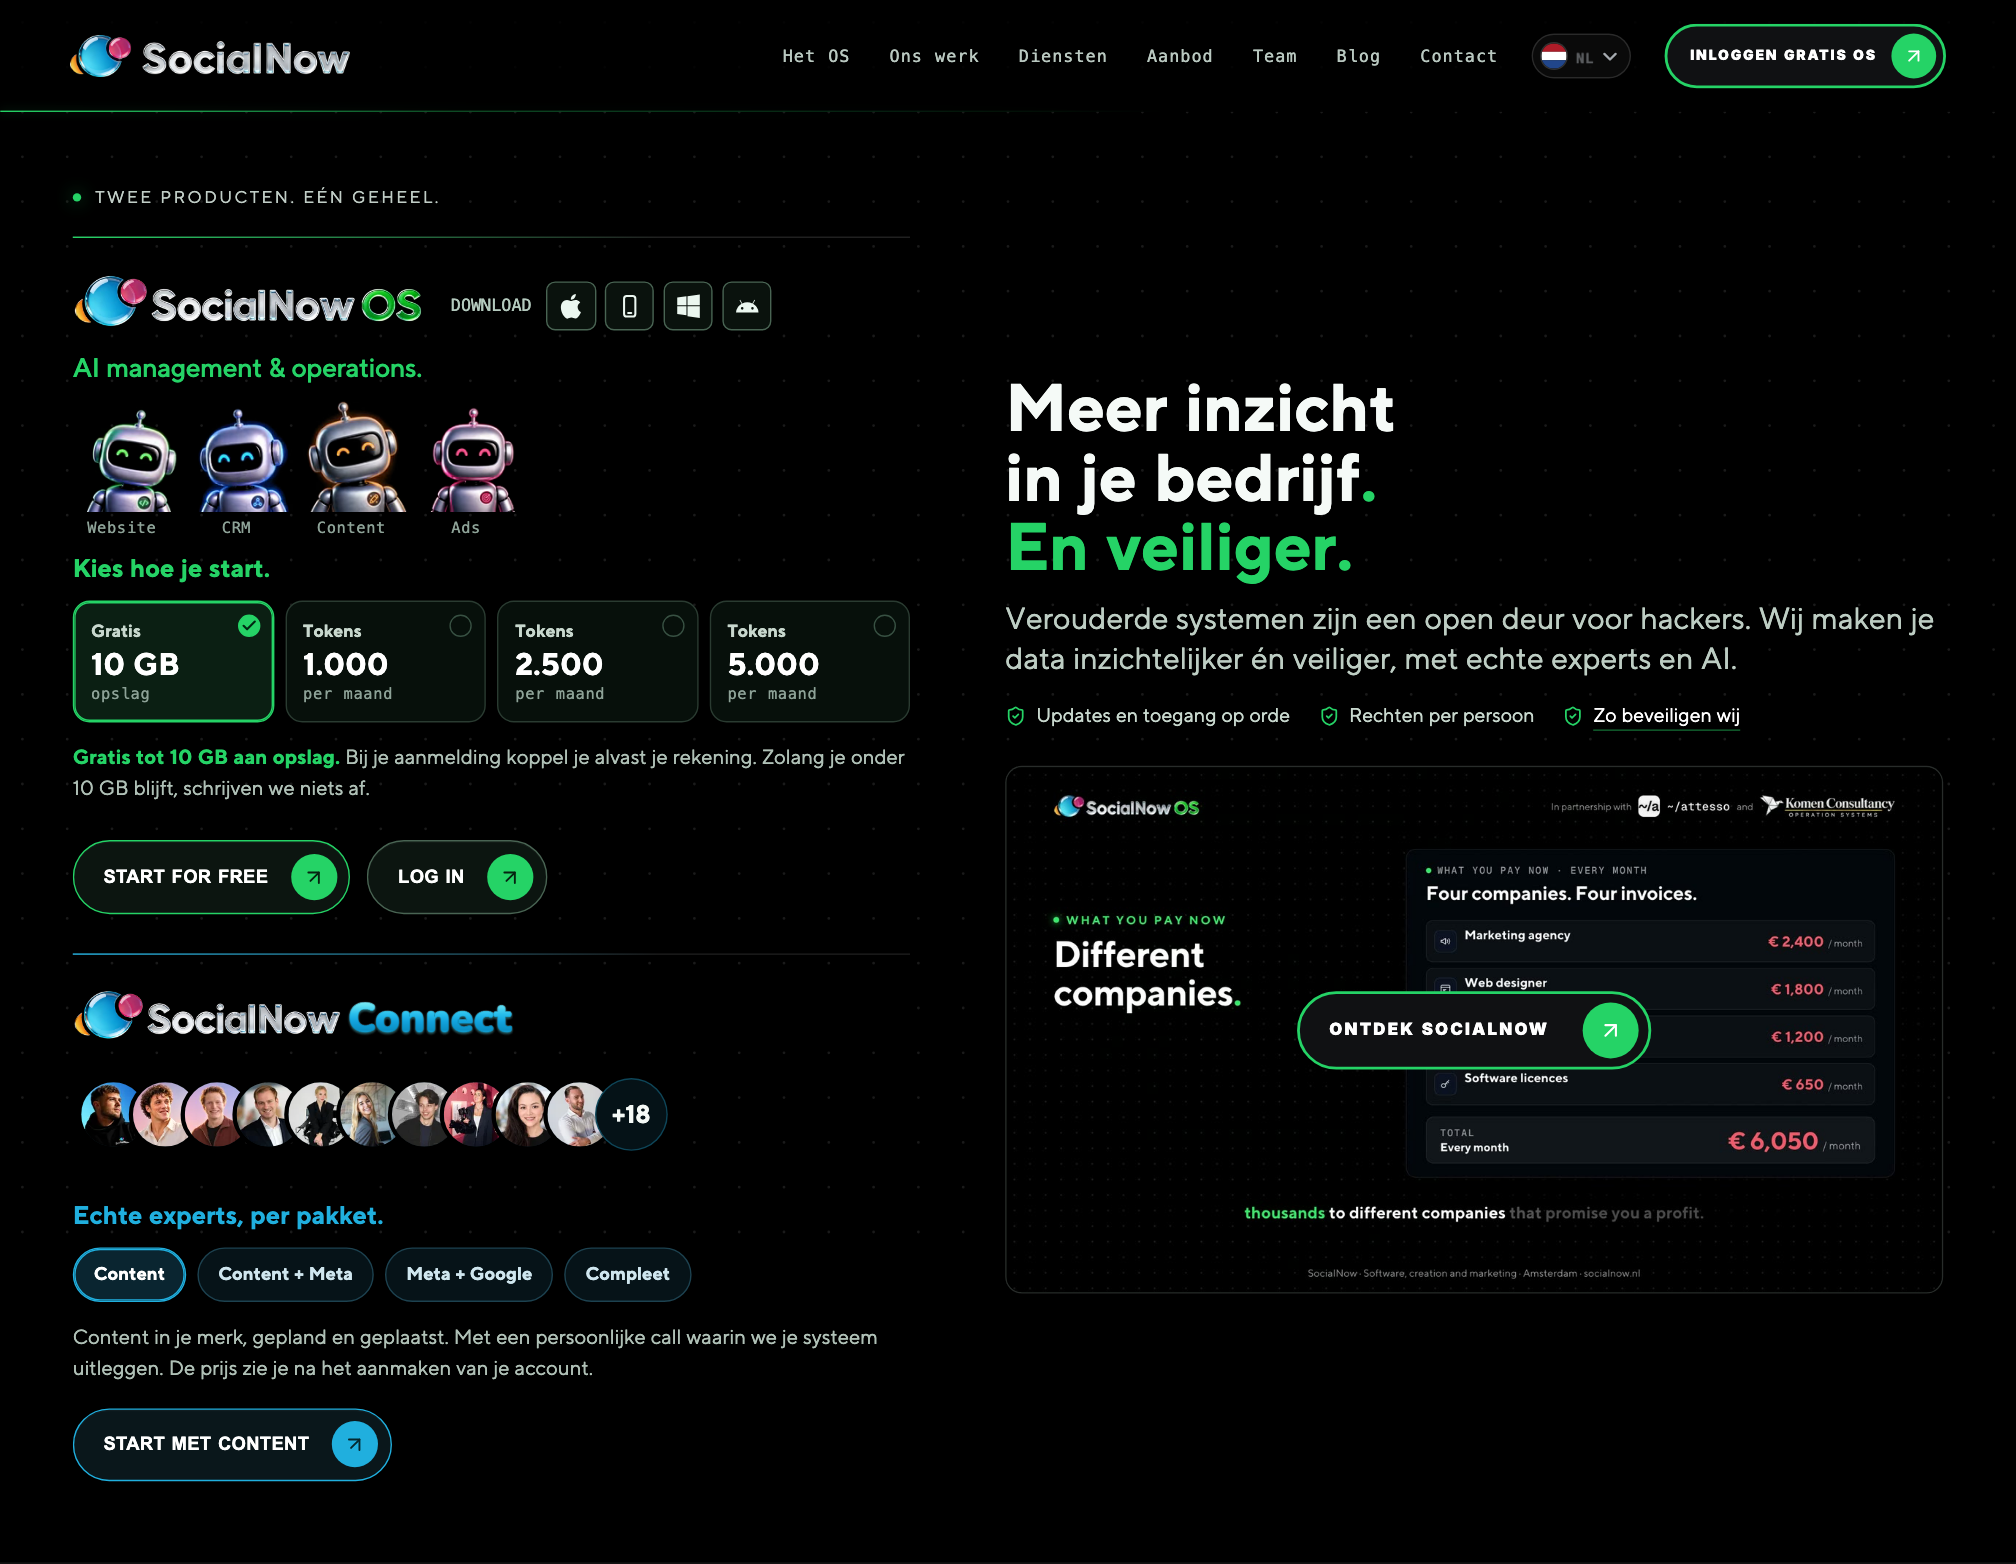
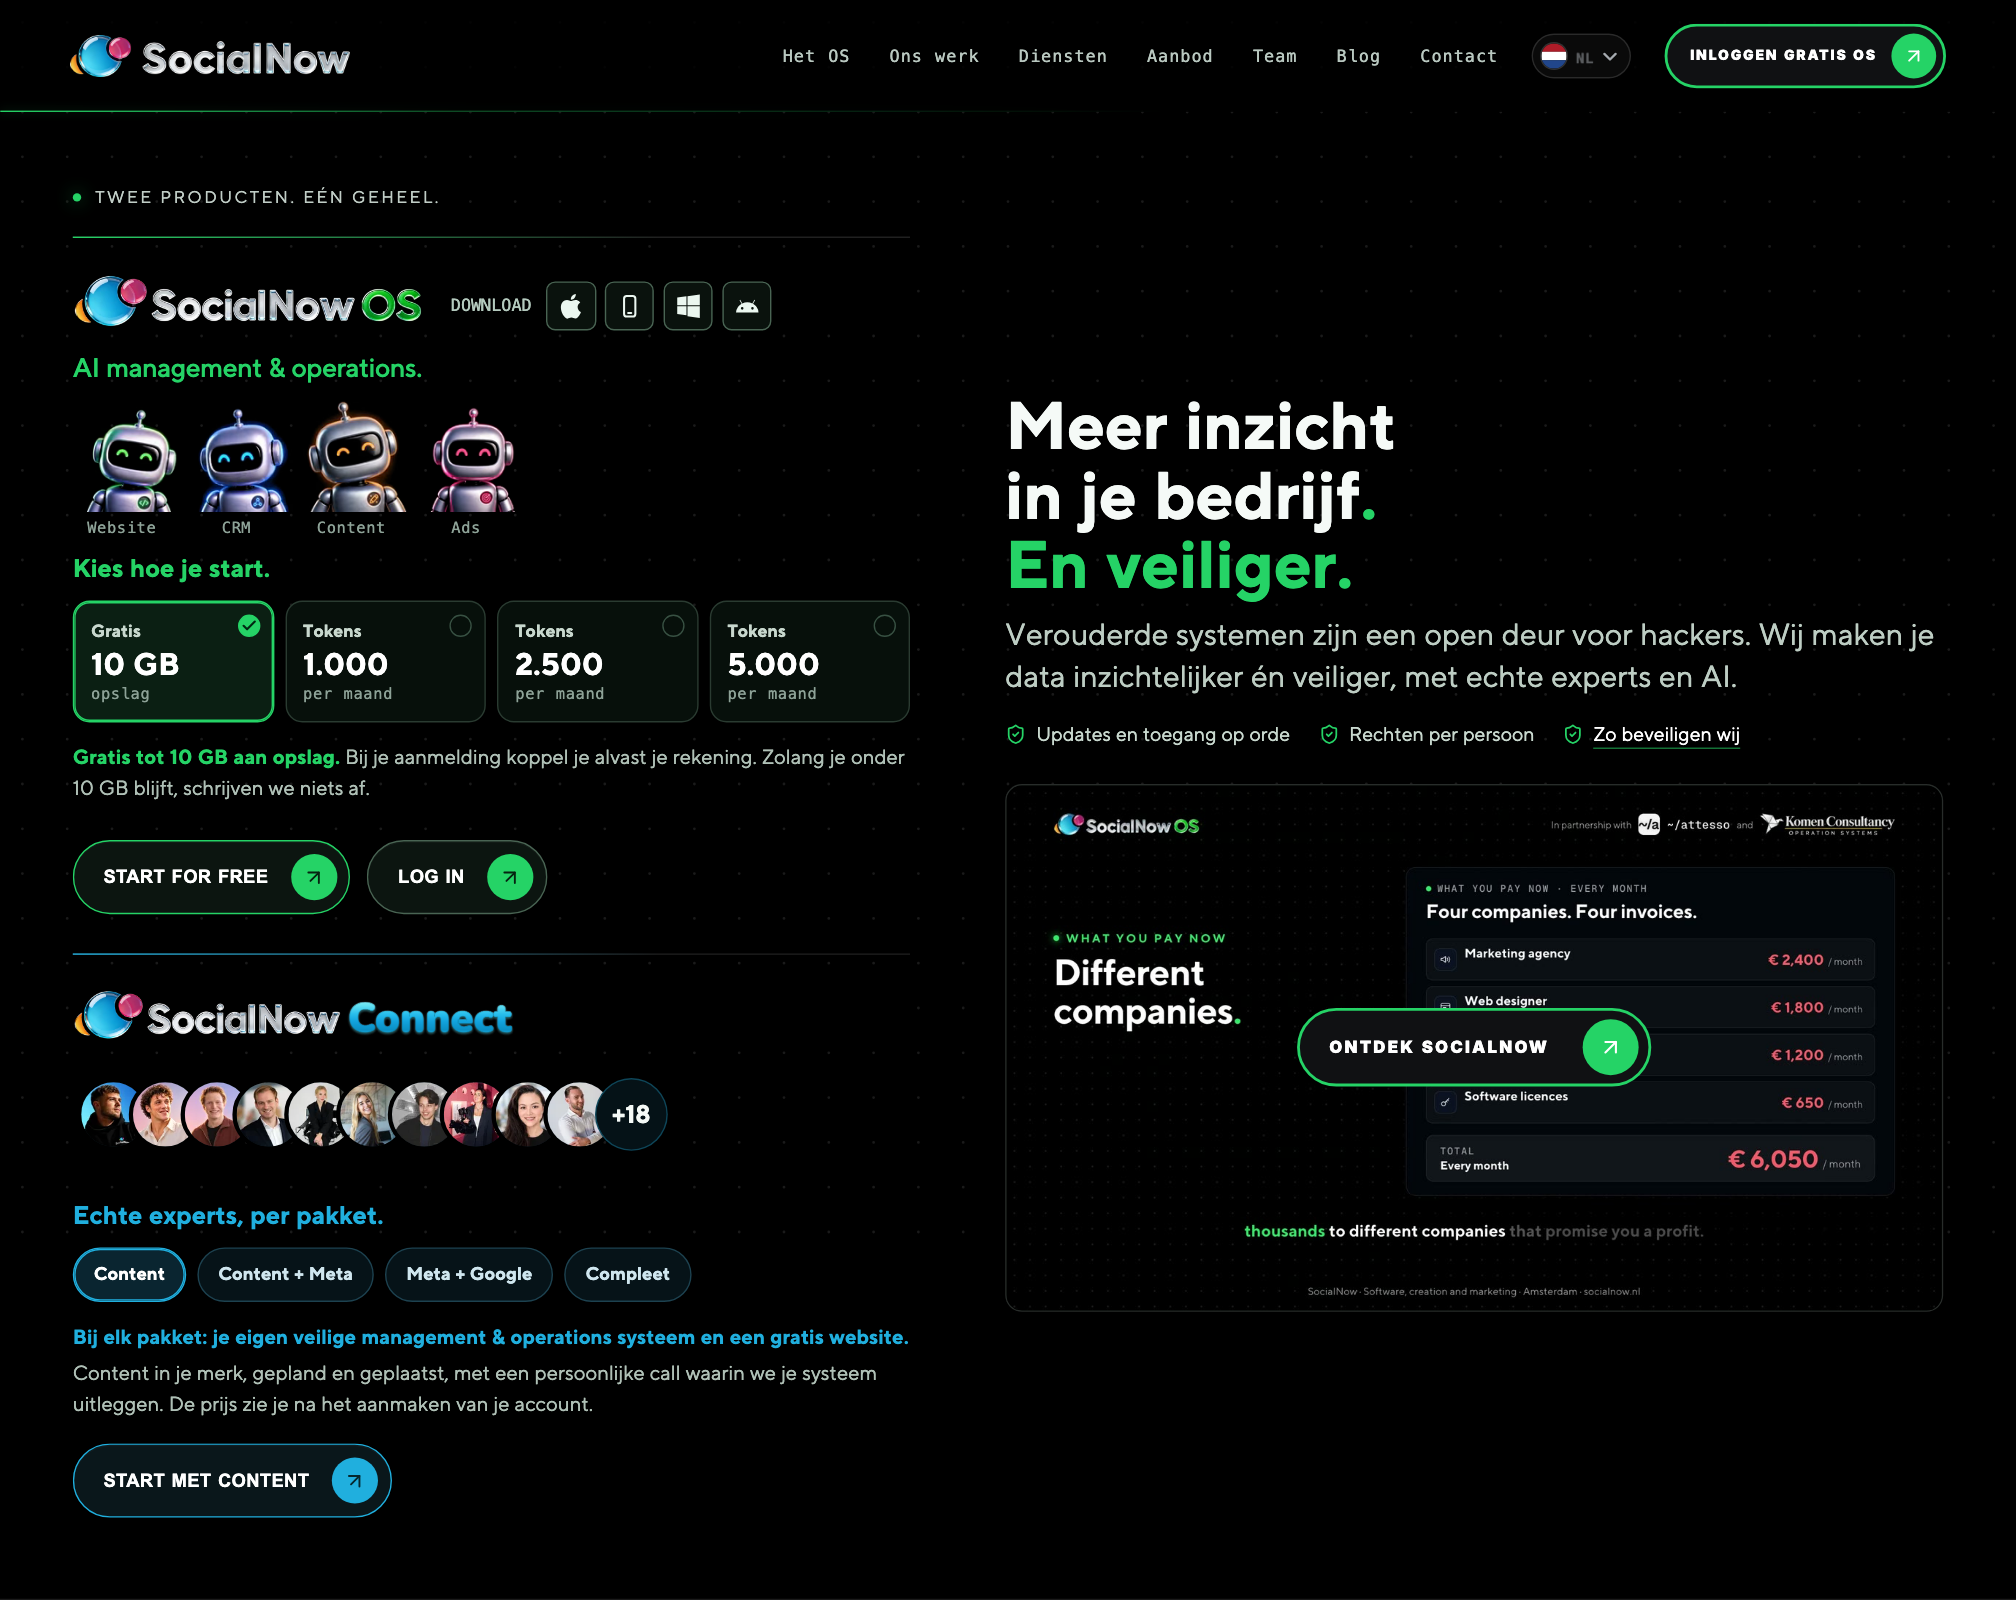
Variant B: bij elk hulppakket een veilig management & operations systeem en een gratis website

diff --git a/proposal/HeaderBestaand.tsx b/proposal/HeaderBestaand.tsx
@@ -36,6 +36,9 @@ const START = [
 ];
 const MILOS = [{ rol: "website", naam: "Website" }, { rol: "crm", naam: "CRM" }, { rol: "content", naam: "Content" }, { rol: "ads", naam: "Ads" }];
 
+// 18 oktober 2026 (Marinus): "het is van belang dat het duidelijk is dat je voor 3K een veilig persoonlijk
+// management and operation systeem hebt. Custom is bij alle pakketten naast gratis website inbegrepen." Het bedrag
+// zelf staat pas na het aanmaken van een account; hier alleen wat er in elk pakket zit.
 // Ook een hulppakket kies je bij het aanmaken van je account; de prijs volgt daarna in het OS.
 const HULP = [
   { id: "hulp-content", naam: "Content", wie: "Content in je merk, gepland en geplaatst" },
@@ -101,7 +104,7 @@ export default function HeaderBestaand({ meet }: { meet: (doel: Doel) => void })
                     <button key={h.id} type="button" role="radio" aria-checked={hulp === h.id} tabIndex={hulp === h.id ? 0 : -1} data-id={h.id} className="bs-chip" onClick={() => setHulp(h.id)} translate="no">{h.naam}</button>
                   ))}
                 </div>
-                <p className="bs-uitleg bs-uitleg-hulp">{hulpPakket.wie}. Met een persoonlijke call waarin we je systeem uitleggen. De prijs zie je na het aanmaken van je account.</p>
+                <p className="bs-uitleg bs-uitleg-hulp"><strong>Bij elk pakket: je eigen veilige management &amp; operations systeem en een gratis website.</strong> {hulpPakket.wie}, met een persoonlijke call waarin we je systeem uitleggen. De prijs zie je na het aanmaken van je account.</p>
                 <div className="action"><a className="pill" href={`${GRATIS_OS_URL}?pakket=${hulp}`} onClick={() => meet("connect")}><span>Start met {hulpPakket.naam}</span><span className="arrow"><ArrowUpRight size={17} /></span></a></div>
               </article>
             </div>

diff --git a/proposal/header-bestaand.css b/proposal/header-bestaand.css
@@ -31,3 +31,4 @@
 .sn-site .sn-bestaand .bs-zeker svg{color:var(--green)}
 .sn-site .sn-bestaand .bs-zeker a{color:#fff;border-bottom:1px solid #25d36688}
 .sn-site .sn-bestaand .service.connect>.action .pill{width:max-content;max-width:100%;gap:16px;white-space:nowrap}
+.sn-site .sn-bestaand .bs-uitleg-hulp strong{display:block;margin-bottom:4px;color:var(--blue)}
